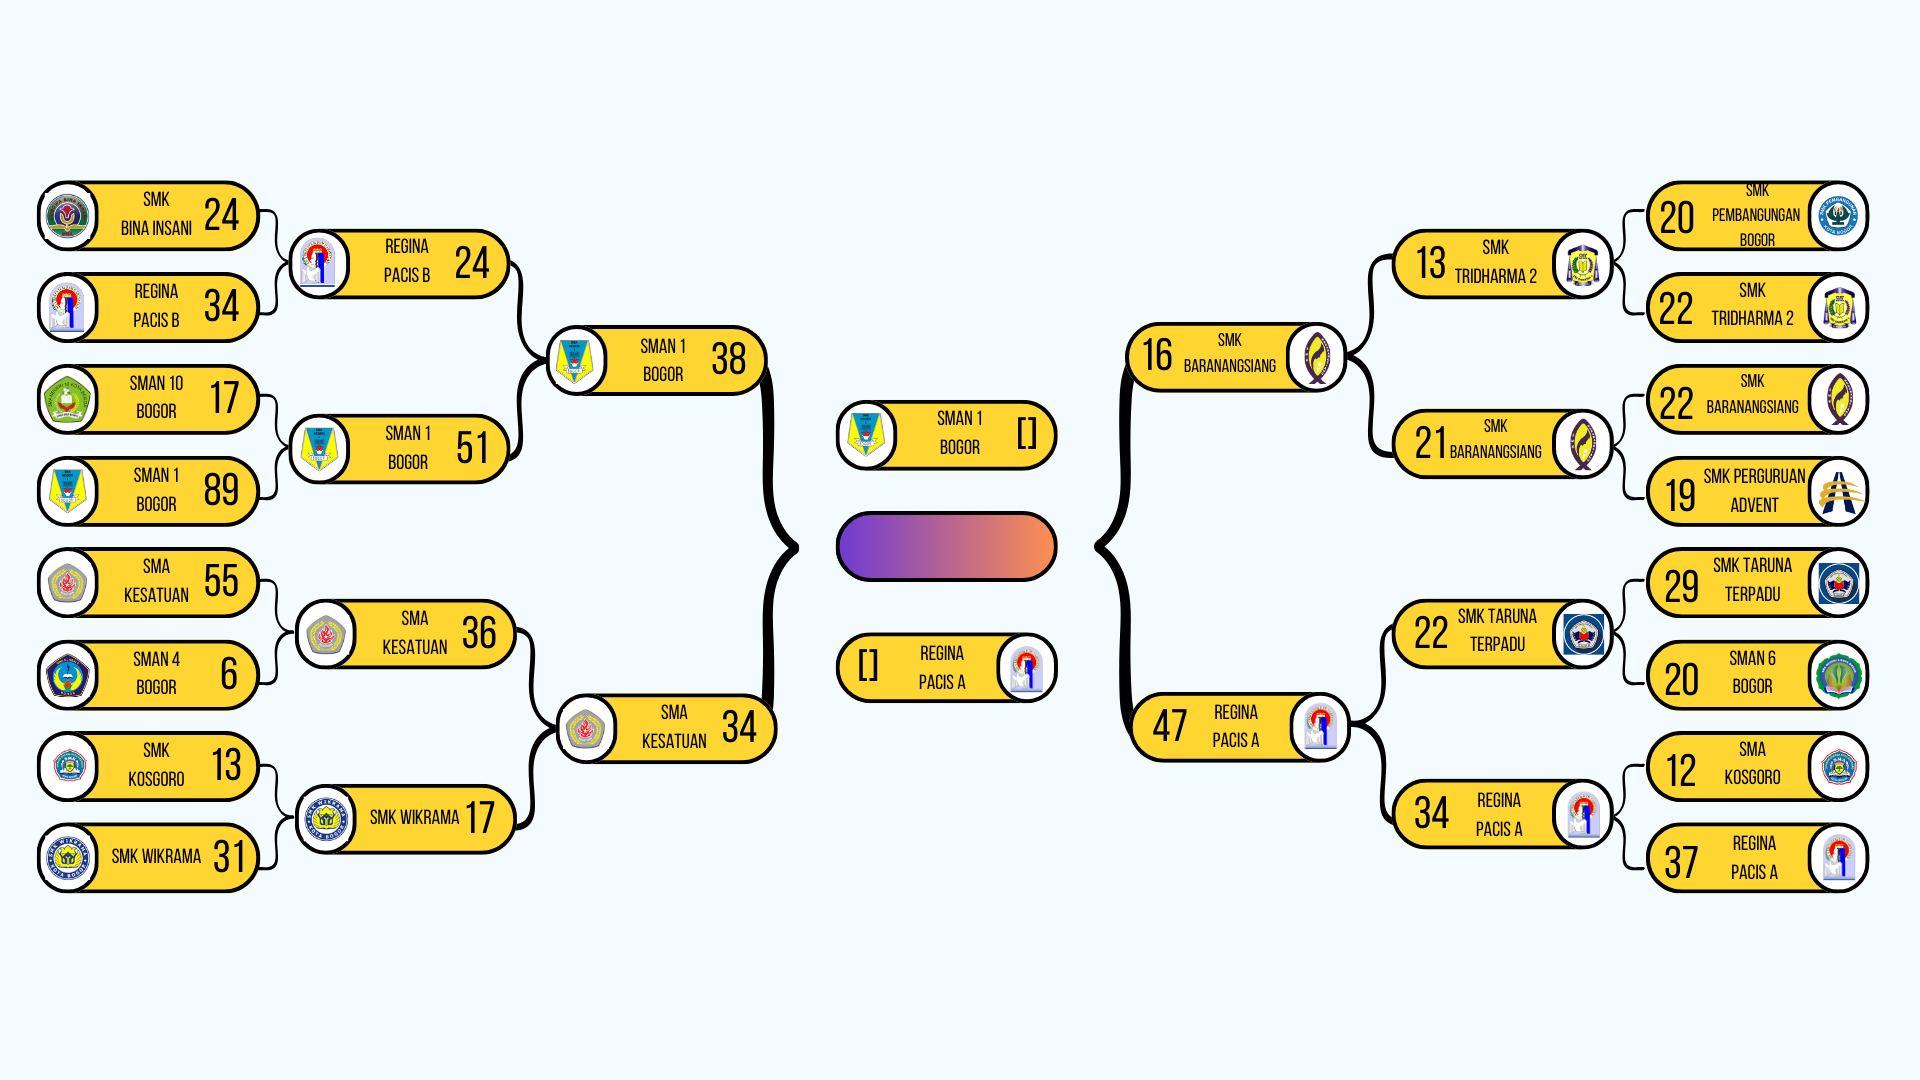
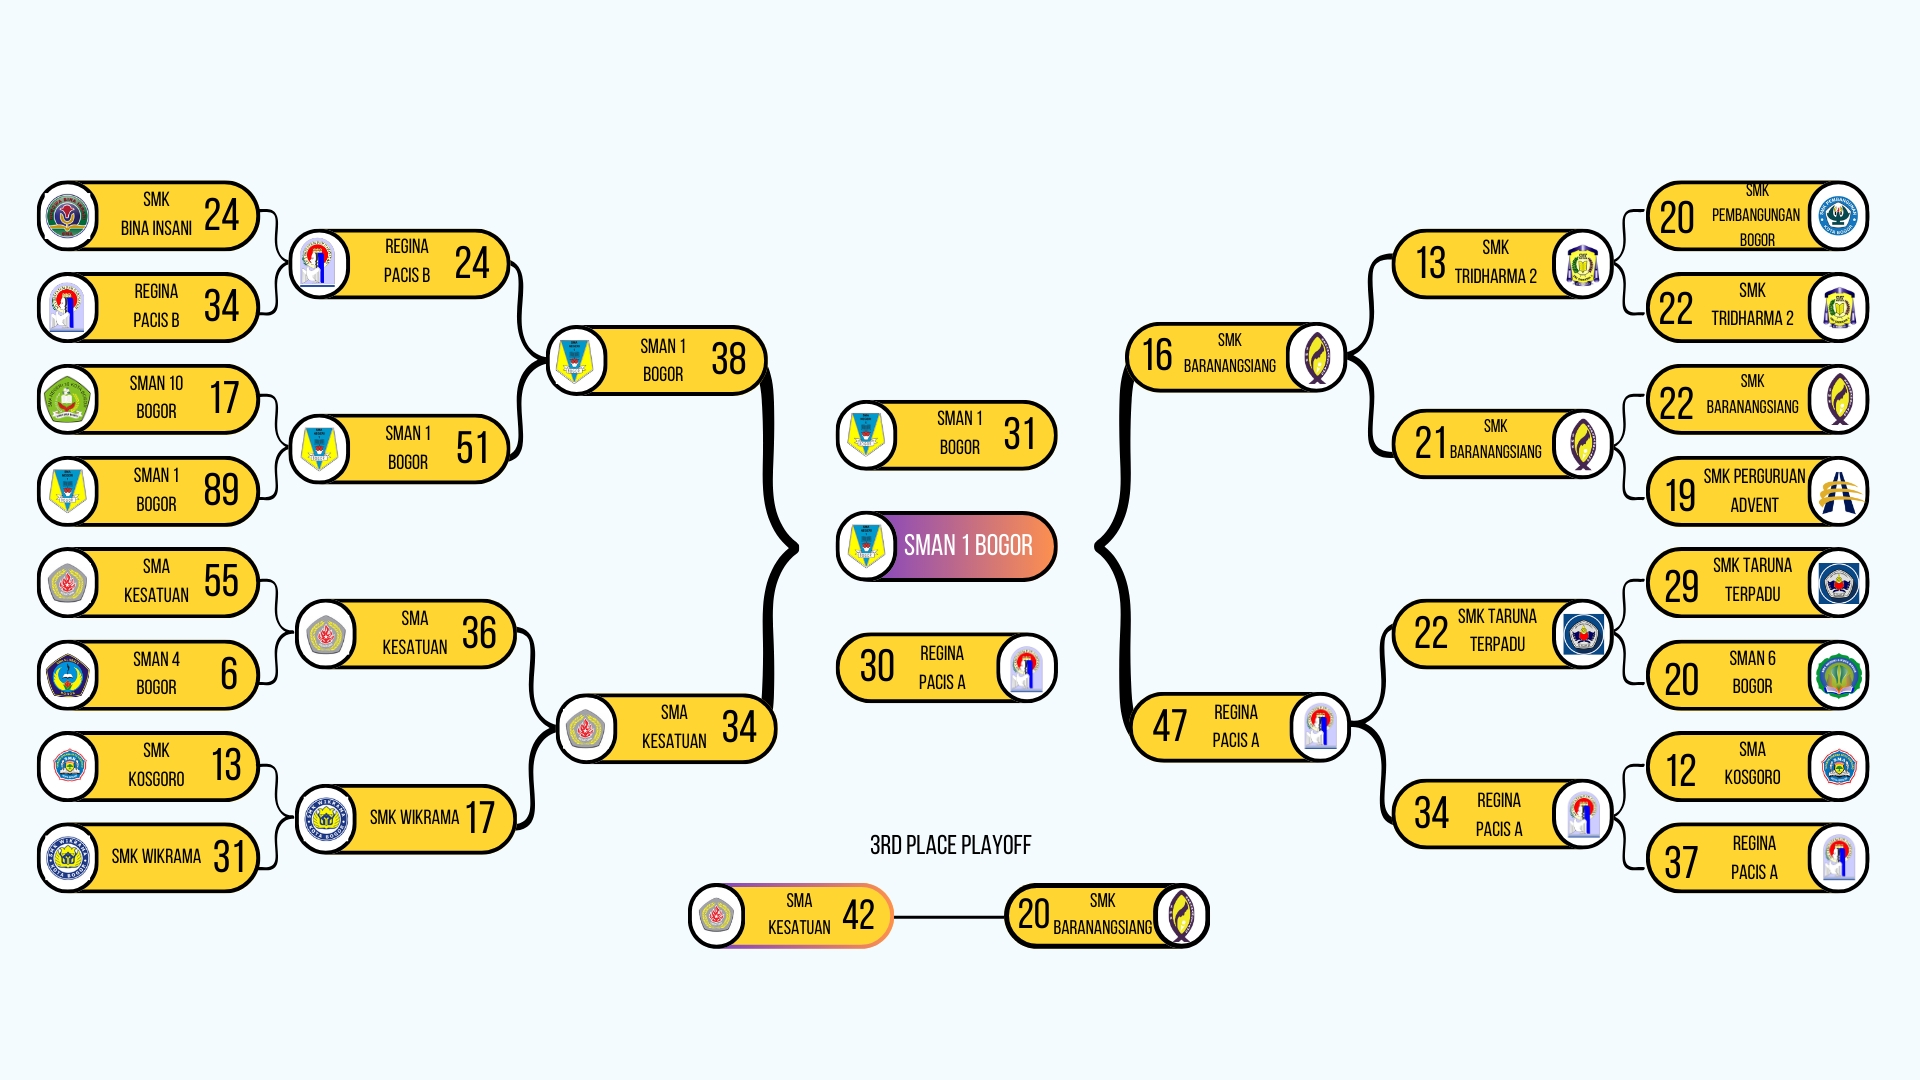
updated

Changed region(s): [[0.3438, 0.7639, 0.625, 0.8861], [0.4375, 0.4583, 0.5312, 0.55], [0.4375, 0.5806, 0.4688, 0.6417]]

diff --git a/frontend/src/pages/HomePage.tsx b/frontend/src/pages/HomePage.tsx
@@ -26,6 +26,7 @@ import FutsalAB from "../assets/Futsal AB.png";
 import FutsalCD from "../assets/Futsal CD.png";
 import FutsalEF from "../assets/Futsal EF.png";
 import FutsalGH from "../assets/Futsal GH.png";
+import FutsalBracket from "../assets/Futsal Bracket.png";
 
 const HomePage = () => {
   return (
@@ -401,6 +402,17 @@ const HomePage = () => {
                 >
                   Futsal Putra
                 </h3>
+                <Col className="text-center d-flex justify-content-center align-items-center">
+                  <Image
+                    style={{ height: "auto", maxWidth: "100%" }}
+                    src={FutsalBracket}
+                    alt=""
+                    fluid
+                    data-aos="fade-up"
+                    data-aos-duration="1000"
+                  />
+                </Col>
+
                 <Col className="text-center d-flex justify-content-center align-items-center">
                   <Image
                     style={{ height: "auto", maxWidth: "100%" }}

diff --git a/frontend/src/pages/TournamentPage.tsx b/frontend/src/pages/TournamentPage.tsx
@@ -6,6 +6,7 @@ import FutsalAB from "../assets/Futsal AB.png";
 import FutsalCD from "../assets/Futsal CD.png";
 import FutsalEF from "../assets/Futsal EF.png";
 import FutsalGH from "../assets/Futsal GH.png";
+import FutsalBracket from "../assets/Futsal Bracket.png";
 
 const TournamentPage = () => {
   return (
@@ -81,6 +82,17 @@ const TournamentPage = () => {
           >
             Futsal Putra
           </h3>
+          <Col className="text-center d-flex justify-content-center align-items-center">
+            <Image
+              style={{ height: "auto", maxWidth: "100%" }}
+              src={FutsalBracket}
+              alt=""
+              fluid
+              data-aos="fade-up"
+              data-aos-duration="1000"
+            />
+          </Col>
+
           <Col className="text-center d-flex justify-content-center align-items-center">
             <Image
               style={{ height: "auto", maxWidth: "100%" }}
